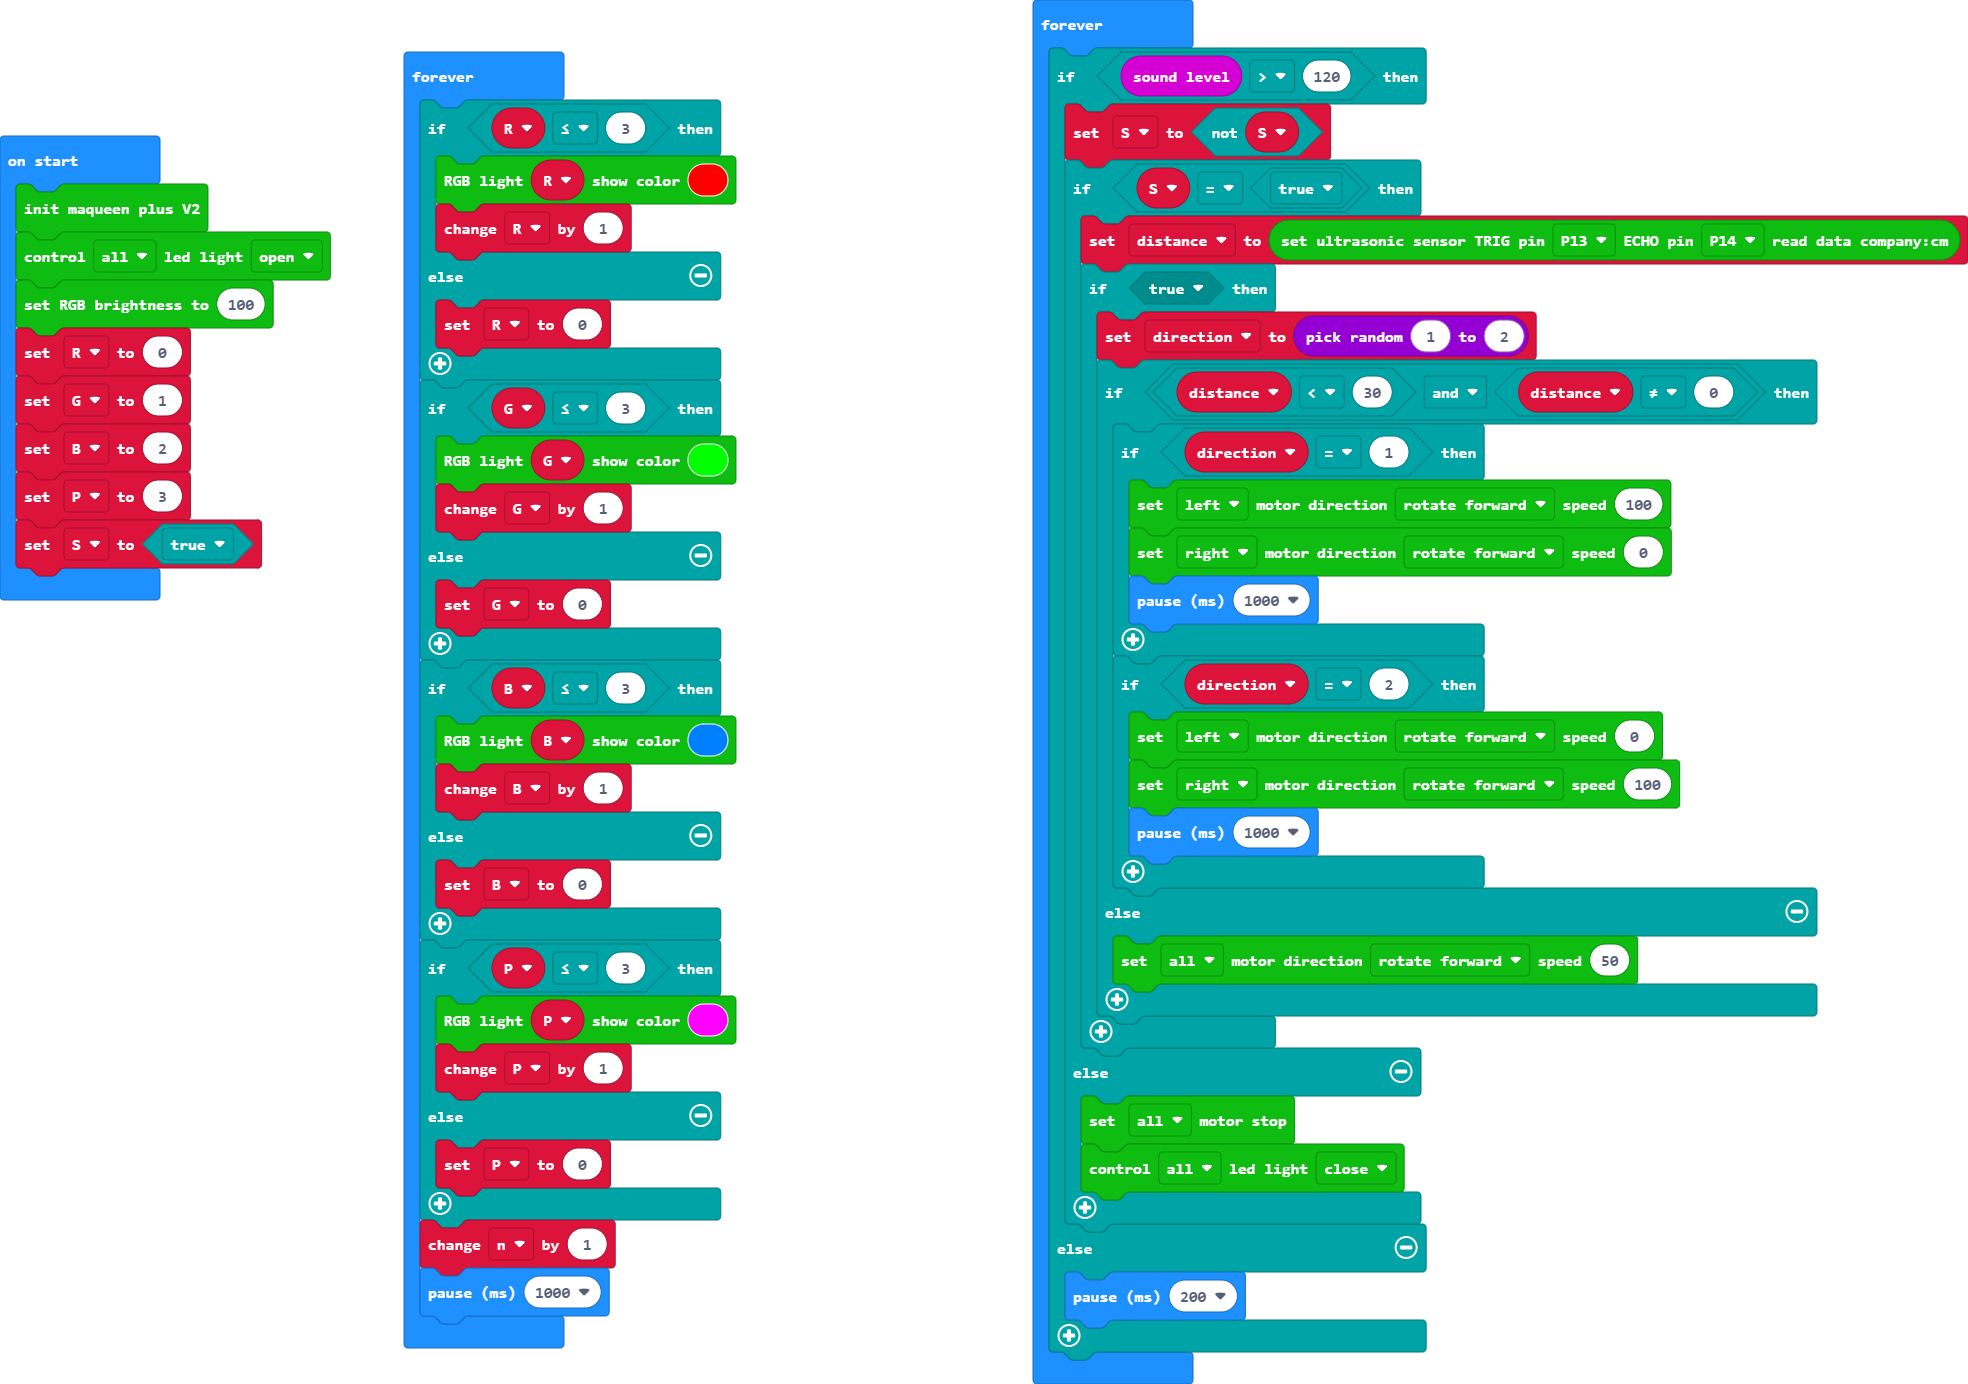
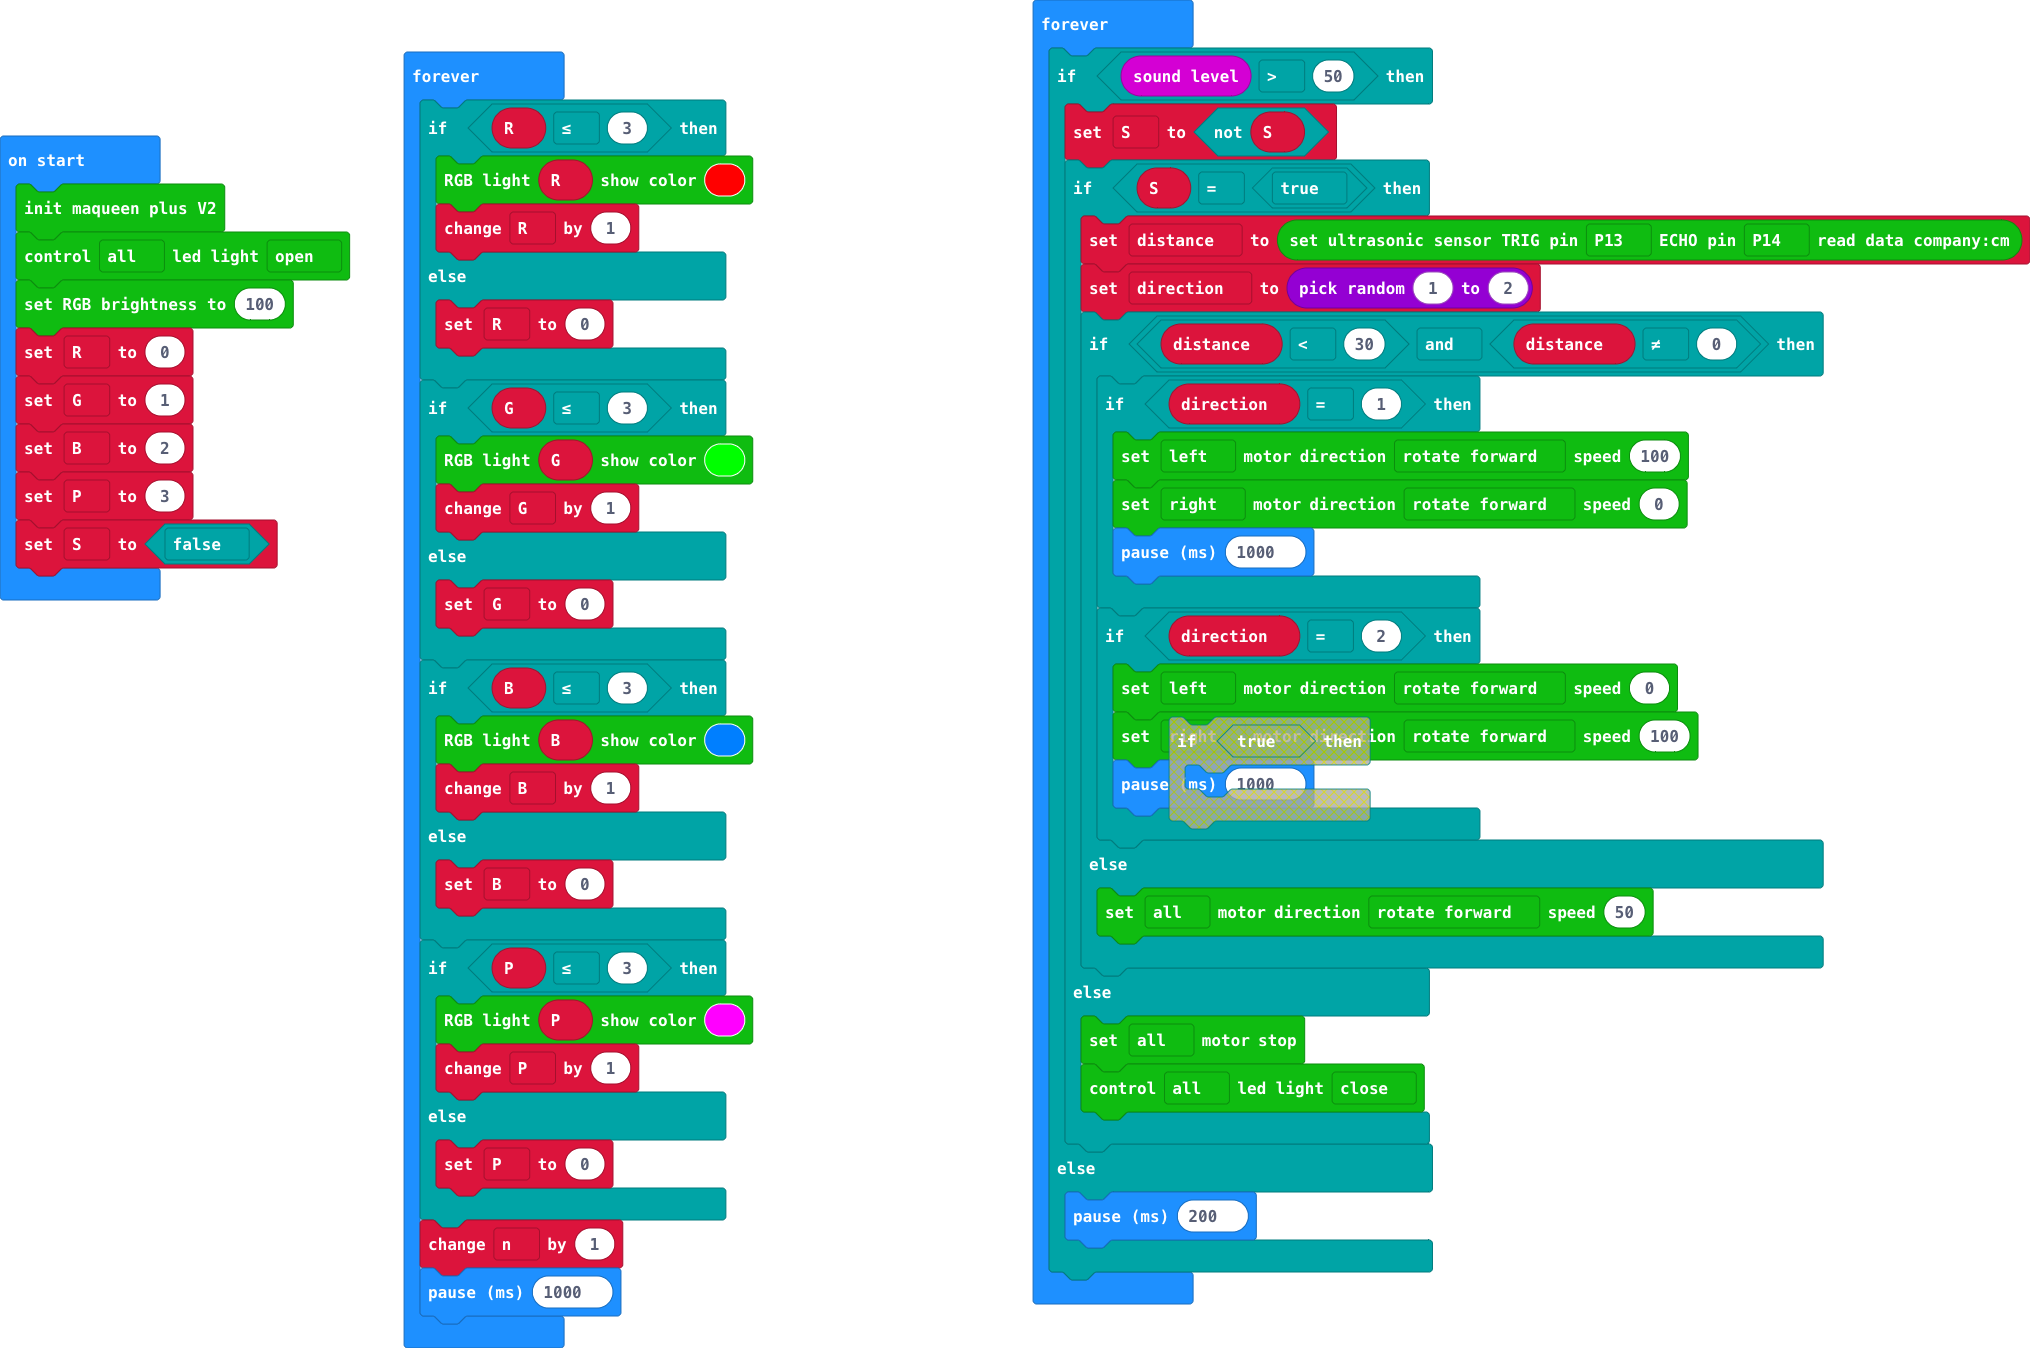
fix bug and lower sound level

Changed region(s): [[0.4959, 0.0, 1.0, 1.0], [0.0, 0.0312, 0.372, 1.0]]

diff --git a/main.ts b/main.ts
@@ -8,28 +8,26 @@ let R = 0
 let G = 1
 let B = 2
 let P = 3
-let S = true
+let S = false
 basic.forever(function () {
-    if (input.soundLevel() > 120) {
+    if (input.soundLevel() > 50) {
         S = !(S)
         if (S == true) {
             distance = DFRobotMaqueenPlusV2.readUltrasonic(DigitalPin.P13, DigitalPin.P14)
-            if (true) {
-                direction = randint(1, 2)
-                if (distance < 30 && distance != 0) {
-                    if (direction == 1) {
-                        DFRobotMaqueenPlusV2.controlMotor(MyEnumMotor.eLeftMotor, MyEnumDir.eForward, 100)
-                        DFRobotMaqueenPlusV2.controlMotor(MyEnumMotor.eRightMotor, MyEnumDir.eForward, 0)
-                        basic.pause(1000)
-                    }
-                    if (direction == 2) {
-                        DFRobotMaqueenPlusV2.controlMotor(MyEnumMotor.eLeftMotor, MyEnumDir.eForward, 0)
-                        DFRobotMaqueenPlusV2.controlMotor(MyEnumMotor.eRightMotor, MyEnumDir.eForward, 100)
-                        basic.pause(1000)
-                    }
-                } else {
-                    DFRobotMaqueenPlusV2.controlMotor(MyEnumMotor.eAllMotor, MyEnumDir.eForward, 50)
+            direction = randint(1, 2)
+            if (distance < 30 && distance != 0) {
+                if (direction == 1) {
+                    DFRobotMaqueenPlusV2.controlMotor(MyEnumMotor.eLeftMotor, MyEnumDir.eForward, 100)
+                    DFRobotMaqueenPlusV2.controlMotor(MyEnumMotor.eRightMotor, MyEnumDir.eForward, 0)
+                    basic.pause(1000)
                 }
+                if (direction == 2) {
+                    DFRobotMaqueenPlusV2.controlMotor(MyEnumMotor.eLeftMotor, MyEnumDir.eForward, 0)
+                    DFRobotMaqueenPlusV2.controlMotor(MyEnumMotor.eRightMotor, MyEnumDir.eForward, 100)
+                    basic.pause(1000)
+                }
+            } else {
+                DFRobotMaqueenPlusV2.controlMotor(MyEnumMotor.eAllMotor, MyEnumDir.eForward, 50)
             }
         } else {
             DFRobotMaqueenPlusV2.controlMotorStop(MyEnumMotor.eAllMotor)
